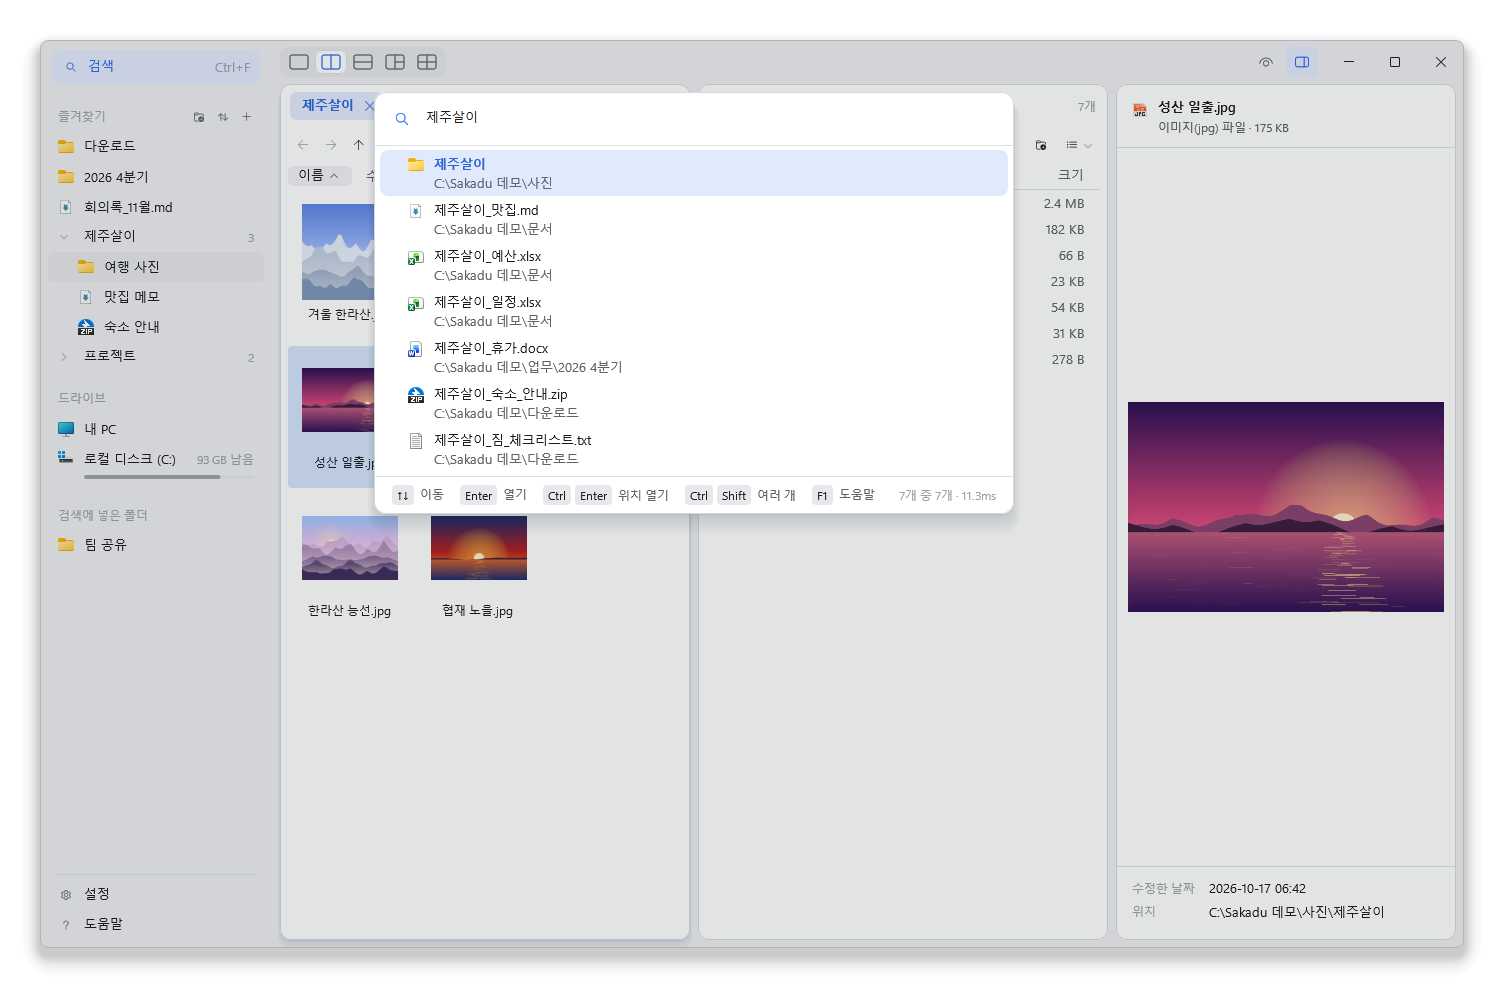
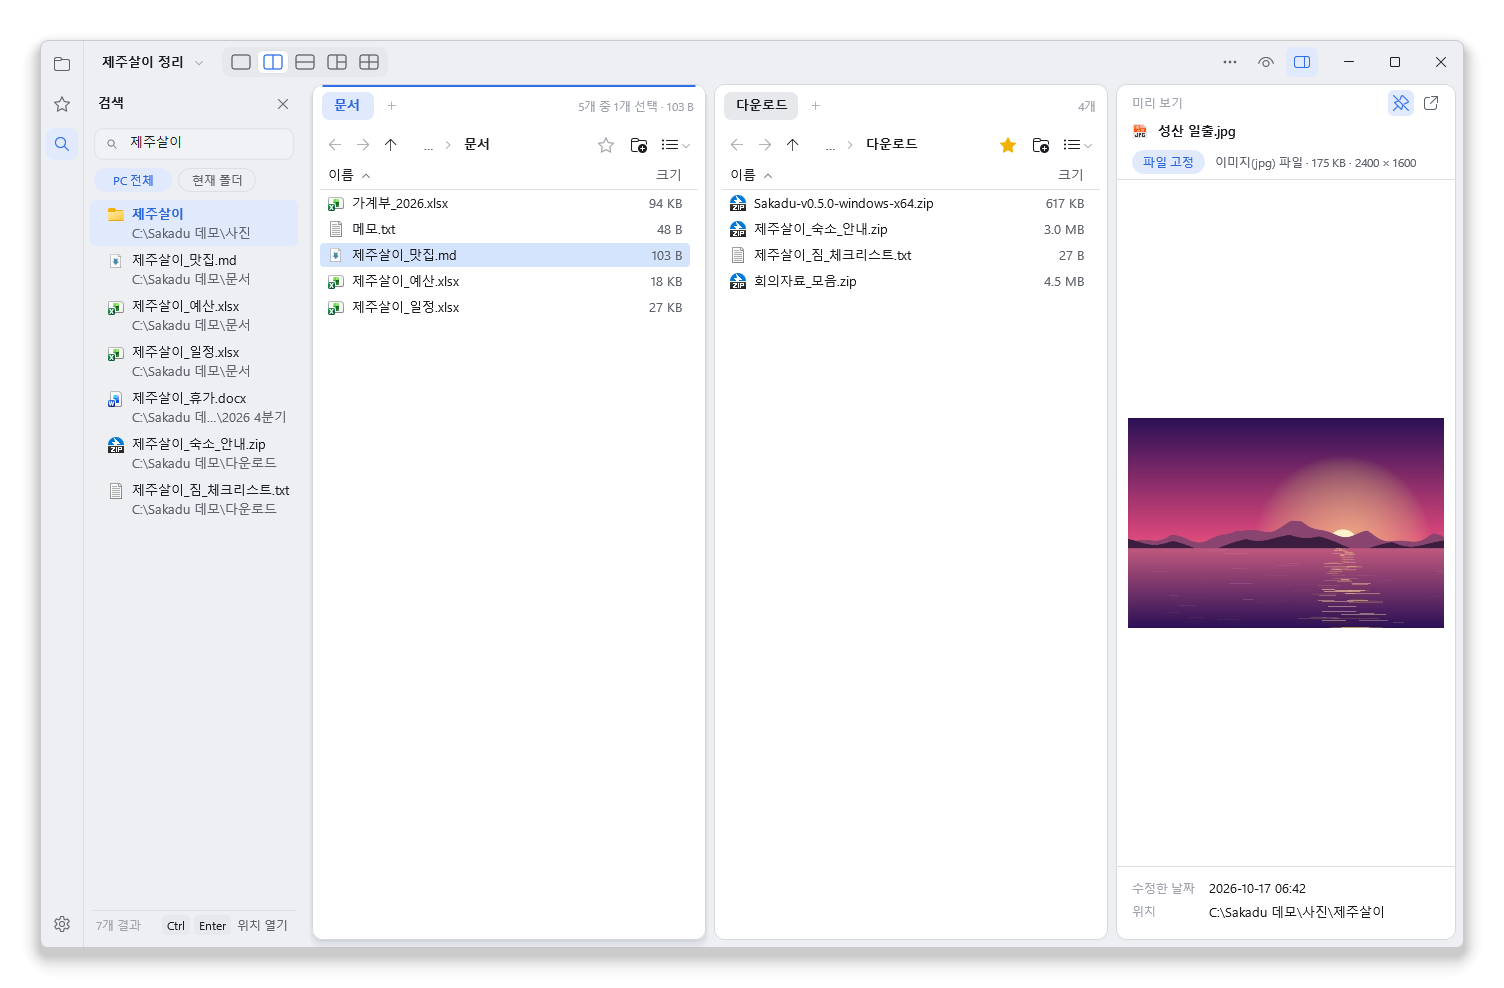
0.6.0: 버전을 올리고 README 스크린샷과 소개를 새 화면에 맞춘다
- 스크린샷 3장을 다시 찍었다: 작업 공간·즐겨찾기 패널·미리 보기(main), 검색 패널과 고정한 미리 보기(search), 다크 네 칸과 새 탭 시작 화면(dark)
- 소개에 검색 패널, 미리 보기 고정, 작업 공간·시작 화면을 더하고 exe 크기를 1.2MB로

diff --git a/README.en.md b/README.en.md
@@ -4,9 +4,9 @@
 
 A Windows file manager that keeps several folders open side by side and finds any file on your disk as you type its name.
 
-![Sakadu with the sidebar, two panes, thumbnails and the preview pane](docs/screenshot-main.png)
+![Sakadu with the icon bar and favorites panel, a workspace, two panes, thumbnails and the preview pane](docs/screenshot-main.png)
 
-**[Download the latest release](https://github.com/noddish/sakadu/releases/latest)** · Windows 11 · a single 1.1 MB exe, no installer · free and open source
+**[Download the latest release](https://github.com/noddish/sakadu/releases/latest)** · Windows 11 · a single 1.2 MB exe, no installer · free and open source
 
 > The interface is Korean only for now.
 
@@ -14,11 +14,12 @@ A Windows file manager that keeps several folders open side by side and finds an
 
 **Search without waiting.** Press Ctrl+F, type part of a name, and results from the whole disk show up right away.
 On a PC with about 1.8 million files and folders, a search takes 10–20 ms.
+Search stays open in the **search panel** on the left, so you keep working in the panes with the results beside you (Ctrl+Enter opens the location in the current pane).
 While Sakadu is running, a global hotkey brings up search from any app. Turn on **트레이에서 대기** (stay in tray) and that works even after you close the window.
 Add a shared folder or USB drive and it's searched too.
 Paste a list of file names to find them all at once, then open or copy the ones you pick in one go.
 
-![Results from the whole disk as you type](docs/screenshot-search.png)
+![Results kept in the search panel and a photo pinned in the preview](docs/screenshot-search.png)
 
 **Stop juggling windows.** Split the window into 2, 3 or 4 panes, each with its own tabs. Drag a tab to move it to another pane.
 Moving files from Downloads into a project folder happens on one screen.
@@ -26,13 +27,15 @@ Moving files from Downloads into a project folder happens on one screen.
 **Works like Explorer.** Right-click menus, the copy progress dialog and drag and drop behave exactly as they do in Explorer.
 Moved something by mistake? Ctrl+Z.
 
-**Look before you open.** Thumbnail view and a preview pane show photos, PDFs and text files right next to the list.
+**Look before you open.** Thumbnail view and a preview pane show photos, PDFs and text files right next to the list. **Pin** a reference file in the preview and it stays there while you select other files.
+
+**Pick up where you left off.** Keep panes and tabs, the search query and the pinned preview file as **workspaces** and switch between them. A new tab opens on your favorite folders and recent locations.
 
 **Light.** No runtime or web view. It's Rust drawing with Direct2D. Unzip and run the exe.
 
 Dark mode follows your Windows setting.
 
-![Dark mode with four panes](docs/screenshot-dark.png)
+![Dark mode with four panes and the new tab start page](docs/screenshot-dark.png)
 
 ## Getting started
 
@@ -40,7 +43,7 @@ Dark mode follows your Windows setting.
 2. Run `sakadu.exe`.
 
 - If Windows shows "Windows protected your PC" on first launch, click **More info → Run anyway**. The exe isn't code-signed yet.
-- Whole-disk search needs a small background service. Press **검색 서비스 설치** (install search service) in the Ctrl+F window once and approve the admin prompt.
+- Whole-disk search needs a small background service. Press **검색 서비스 설치** (install search service) in the search panel (Ctrl+F) once and approve the admin prompt.
 - To open folders in Sakadu by default, open Settings (gear) → **일반** (General) and turn on **기본 파일 관리자로 사용** (use as default file manager).
 - To keep the search hotkey working after you close the window, turn on **트레이에서 대기** (stay in tray) in the same place. Sakadu then also starts at sign-in, without a window.
 - Theme, accent color, font and size live in Settings → **화면** (Appearance); shortcuts in Settings → **단축키** (Shortcuts). Press F1 for usage tips.
